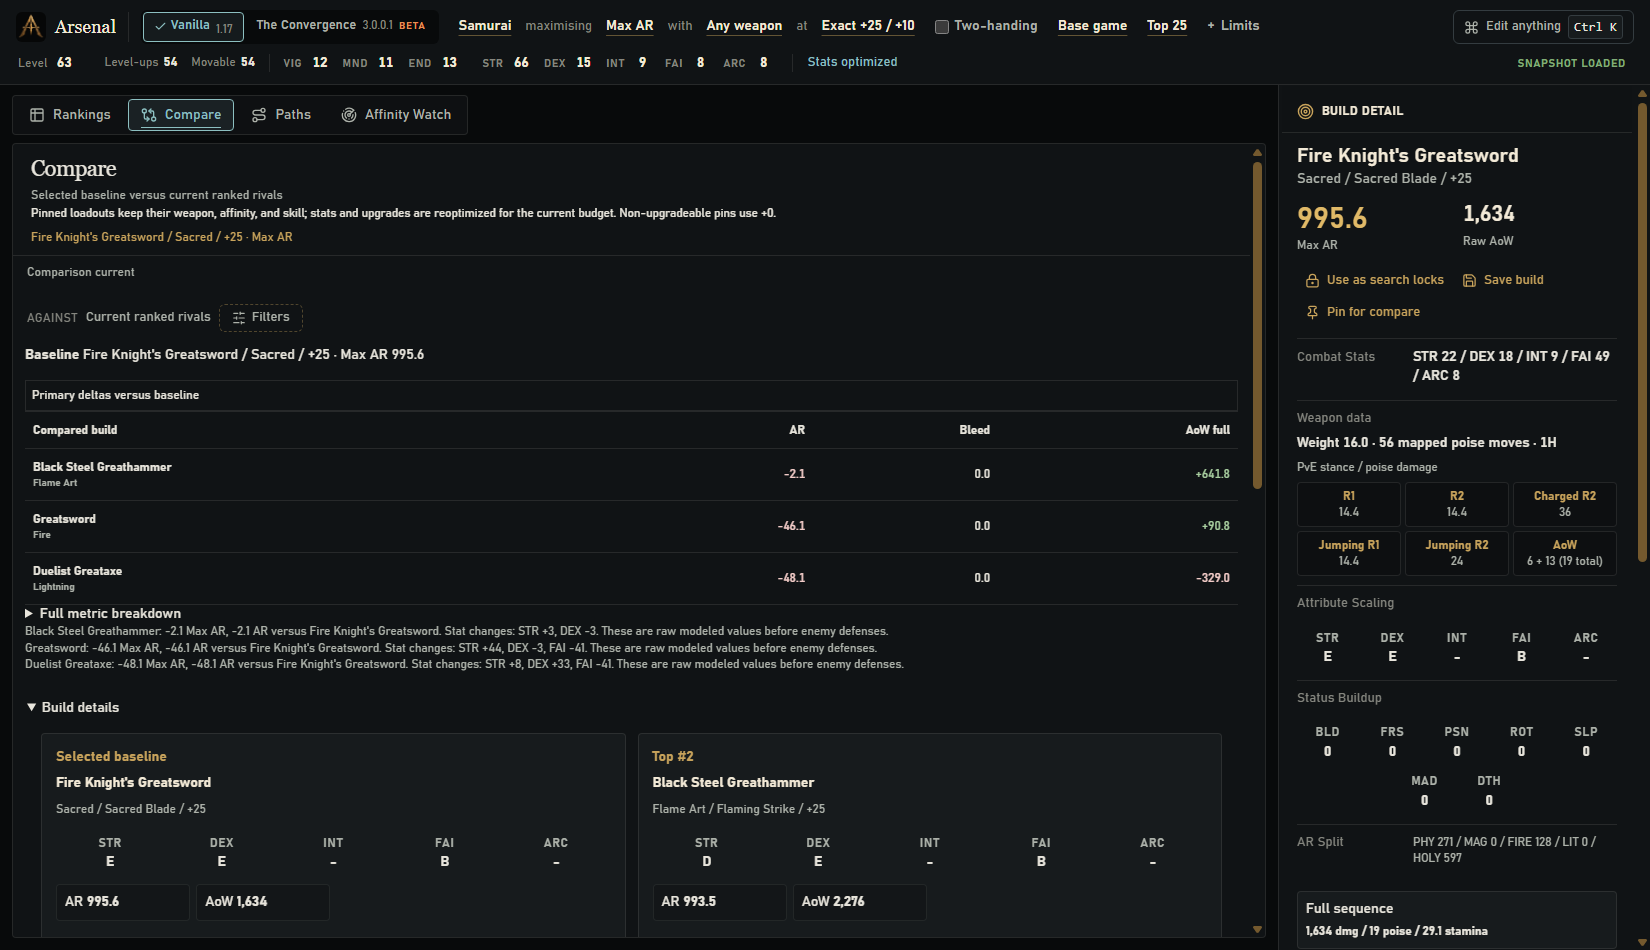
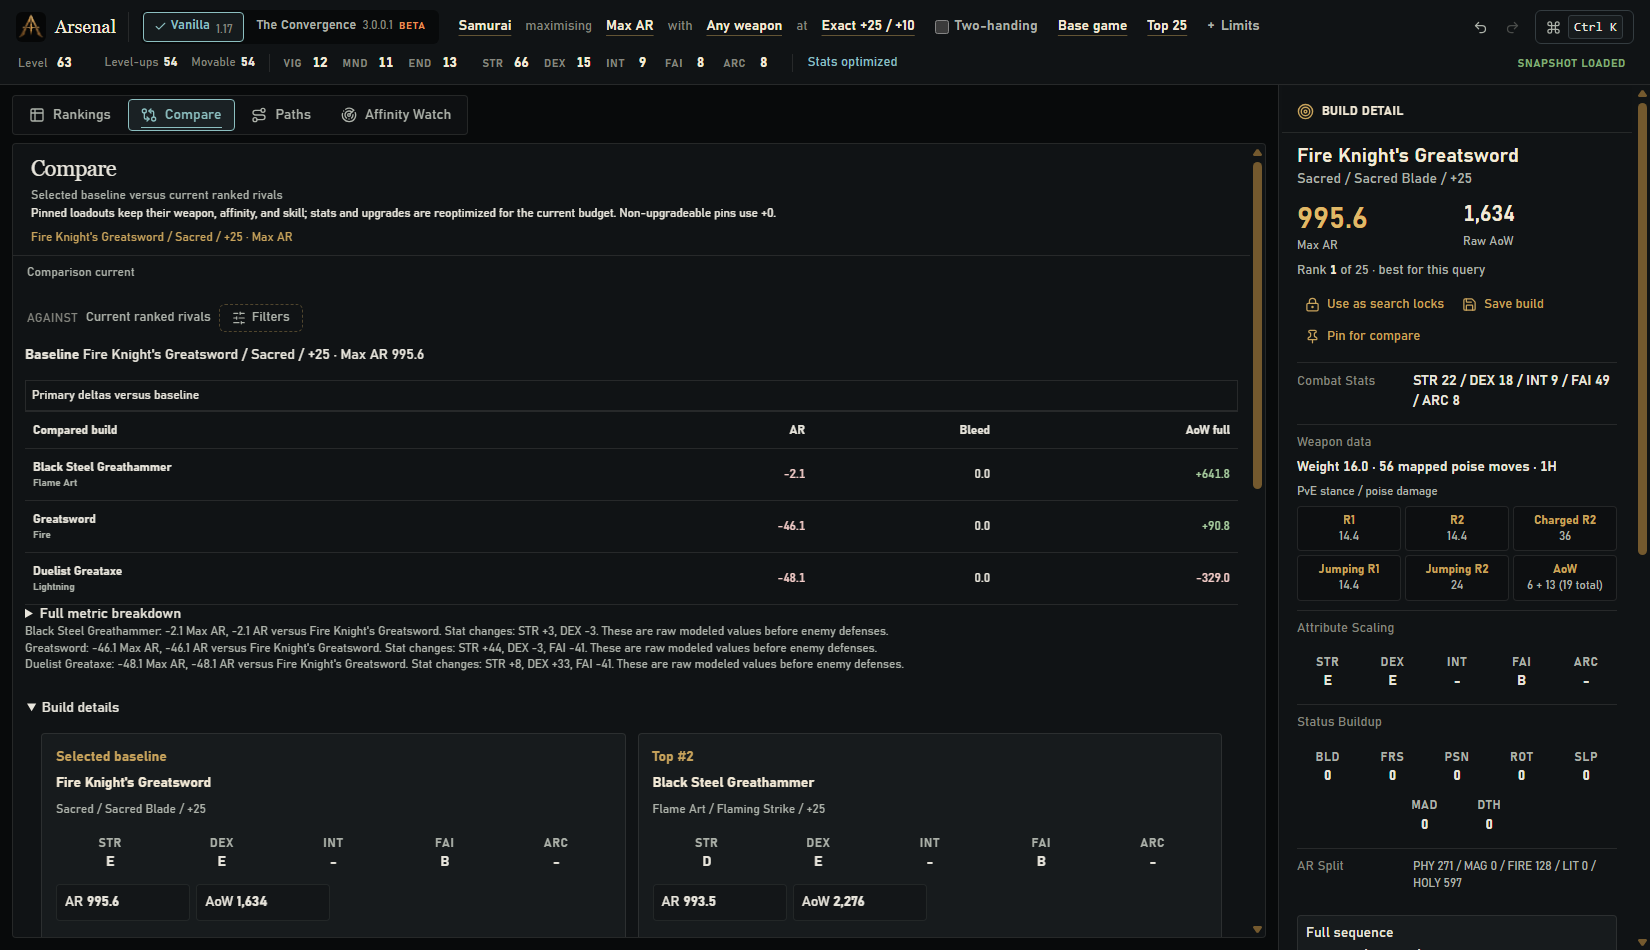
Prepare v0.17.0 with the query line, 120 Hz clicks and a smaller footprint
Bump the application and core to 0.17.0, add the v0.17.0 release notes and changelog entry, point the README at them, and recapture the four README screenshots from the release build.

diff --git a/docs/release-notes/v0.17.0.md b/docs/release-notes/v0.17.0.md
@@ -1,0 +1,110 @@
+# Release v0.17.0
+
+[Home](https://github.com/FueledByRedBull/tarnisheds-arsenal/blob/v0.17.0/README.md) · [All releases](https://github.com/FueledByRedBull/tarnisheds-arsenal/blob/v0.17.0/docs/release-notes/README.md)
+
+A query line you can type into, clicks that finish within a 120 Hz frame, and a
+fifth of the memory.
+
+## Desktop
+
+- The command rail becomes one query line over the results. Class, objective,
+  loadout, upgrades, handling, scaling, results, and limits are parts of the
+  sentence; click one to edit it in place, and type stats into the ribbon below.
+- **Ctrl+K** edits anything by typing, such as `str 40`, `lock dex 30`, a weapon,
+  a skill, `+20`, or `top 10`. Matches are highlighted and recent commands come
+  first.
+- **Ctrl+Z** and **Ctrl+Y** undo and redo any query change. Automatic weapon
+  follow-ups belong to the edit that caused them, and a profile change starts a
+  fresh history.
+- After **Update Results**, each rank shows how far its loadout moved and how its
+  score changed, and Build Detail states the selected rank and its gap to #1.
+- AR, skill damage, the objective, and rank sort from their column headers
+  without renumbering ranks. Keyboard and screen readers follow the sorted order.
+- **Ctrl+Enter** searches, **Ctrl+1** to **Ctrl+4** switch workspaces, arrow keys
+  move between ranked rows, and **?** lists every shortcut.
+- Compare shows its active filters as removable chips with one **Filters** panel,
+  and Build Detail reads as rows with its key numbers set large.
+- Motion explains changes: a re-ranked list settles into place, the workspace tab
+  highlight slides, editors open from their trigger, and values changed by undo or
+  the palette flash where they live. Searches show a progress bar that fills with
+  each update, and the first search fills the board with placeholder rows. All of
+  it respects the system reduced-motion setting.
+- The empty Rankings grid, the selected row's unavailable text, and the Compare
+  upgrade matrix now meet WCAG A/AA.
+
+## Speed and footprint
+
+- Every click finishes within about one 120 Hz frame on the GPU-composited
+  desktop: a column sort takes 7.7 ms instead of 18.5 ms, returning to Rankings
+  5.5 ms instead of 18.3 ms, and opening Compare 8.5 ms instead of 20.9 ms. New
+  results land in 17 ms instead of 29 ms.
+- Search preparation runs in parallel per thread, so an open search takes about
+  80 ms instead of 430 ms, with identical results. Bleed searches no longer have
+  occasional 25 to 44 second outliers, and progress and completion appear sooner.
+- The app uses about 180 MB when idle instead of about 1.1 GB, and about 350 MB
+  instead of 1.3 GB after heavy use. One data table reserved 482 MB per profile for
+  about 190 entries.
+- The portable executable is 12.5 MB instead of 17.6 MB, and the app reaches its
+  loaded data about 150 ms sooner.
+
+See the [performance measurements](https://github.com/FueledByRedBull/tarnisheds-arsenal/blob/v0.17.0/docs/performance.md#responsiveness-work-2026-10-01)
+for methods and limits.
+
+## Data compatibility and limits
+
+The bundled data and the scoring model are unchanged: snapshot schema **6** and
+runtime model **`aow-routes-effects-v9/exact-v3`**, so builds saved with v0.16.0
+load with their results. The game profiles remain Vanilla **1.17** and Convergence
+**3.0.0.1**. Convergence retains its documented experimental feature limits.
+
+AR and status values do not include enemy defenses, resistance growth, or status
+proc damage. Sequence totals assume the modeled contacts connect. War Cry and
+Barbaric Roar's attack-power self-buffs are not modeled. This release does not
+claim live in-game verification of every skill.
+
+## Verification
+
+The release source passed 241 core tests, 61 backend tests, 201 frontend unit
+tests, 166 browser tests, 17 Node contract checks, and 7 native-responsiveness
+metric tests; release-mode benchmarks, which are opt-in, were not run. Frontend
+lint and the production build, Clippy and formatting for both Rust crates, the
+snapshot validator, 122 Python extraction and validation-tool tests, release
+metadata validation, and documentation link checks also passed. Five packaging
+tests that need PowerShell 7 were skipped locally and run in CI.
+
+The release executable passed the packaged WebView2 smoke test with the version
+bump, using its compressed embedded data. A seeded external reference comparison
+against the pinned T. Clark 1.17 calculator passed all 632 Vanilla weapon AR and
+base status cases, covering 100 weapons and the 32 Bloodfiend's Fork boundary
+cases at zero, random, and maximum upgrades in both handling modes. The largest AR
+component difference was 0.00008, within the 0.001 tolerance, and all 348
+applicable selected-skill identities matched. The exhaustive raw-data check also
+passed for both profiles: every candidate weapon and Ash pair (382,220 Vanilla,
+389,058 Convergence) matched the raw regulation mount permissions, and all 364,304
+Vanilla and 601,140 Convergence legal configurations evaluated without errors apart
+from documented unsupported cases, including 255,208 materialized Vanilla skill
+routes. Neither check verifies skill damage formulas.
+
+Identical searches returned identical ranked results before and after the memory
+and size changes. Timings were measured on one Windows desktop with a 240 Hz
+display; the performance measurements record their methods and variation.
+Versioned packages must pass the release workflow's package checks before
+publication. Installation, upgrade, and uninstall on a clean Windows machine were
+not exercised. The release build report records the final source commit, package
+checks, and signing status.
+
+## Downloads
+
+These versioned links are prepared for publication and become available when
+v0.17.0 is published. Until then, use the
+[latest published release](https://github.com/FueledByRedBull/tarnisheds-arsenal/releases/latest).
+
+| Download | Use it for |
+| --- | --- |
+| [Windows installer](https://github.com/FueledByRedBull/tarnisheds-arsenal/releases/download/v0.17.0/TarnishedsArsenal_0.17.0_x64_en-US.msi) | Standard installation; downloads WebView2 if needed |
+| [Portable executable](https://github.com/FueledByRedBull/tarnisheds-arsenal/releases/download/v0.17.0/TarnishedsArsenal_0.17.0_portable.exe) | Run directly with WebView2 already installed |
+| [Portable archive](https://github.com/FueledByRedBull/tarnisheds-arsenal/releases/download/v0.17.0/TarnishedsArsenal_0.17.0.zip) | Compressed portable app and documentation; MSI downloaded separately |
+| [SHA-256 checksums](https://github.com/FueledByRedBull/tarnisheds-arsenal/releases/download/v0.17.0/TarnishedsArsenal_0.17.0_SHA256SUMS.txt) | Verify the downloaded files |
+| [Build report](https://github.com/FueledByRedBull/tarnisheds-arsenal/releases/download/v0.17.0/TarnishedsArsenal_0.17.0_build-report.json) | Source commit, profile identities, and signing status |
+
+[Full changelog](https://github.com/FueledByRedBull/tarnisheds-arsenal/compare/v0.16.0...v0.17.0)

diff --git a/README.md b/README.md
@@ -24,23 +24,21 @@ comparisons and progression previews.
 [![Tauri 2](https://img.shields.io/badge/Tauri_2-101315?style=flat-square&logo=tauri&logoColor=c9a45c)](apps/desktop/src-tauri)
 [![React 19](https://img.shields.io/badge/React_19-101315?style=flat-square&logo=react&logoColor=c9a45c)](apps/desktop/src)
 
-[What’s new in v0.16.0](docs/release-notes/v0.16.0.md)
+[What’s new in v0.17.0](docs/release-notes/v0.17.0.md)
 · [Your first build](#your-first-build)
 · [Documentation](#documentation)
 
 </div>
 
 Each Rankings row shows the loadout, weapon scaling, combat stats, AR, and skill
-damage, with the selected build’s full breakdown on the right. Screenshots show
-the query-line interface that follows [v0.16.0](docs/release-notes/v0.16.0.md);
-v0.16.0 itself uses the earlier command rail.
+damage, with the selected build’s full breakdown on the right.
 
 ![Rankings with weapon setups, combat stats, scaling, and the selected build’s damage breakdown](docs/images/tarnisheds-arsenal-rankings.png)
 
 ## Download
 
 Choose an asset from the [latest published release](https://github.com/FueledByRedBull/tarnisheds-arsenal/releases/latest).
-The [v0.16.0 notes](docs/release-notes/v0.16.0.md) include versioned downloads,
+The [v0.17.0 notes](docs/release-notes/v0.17.0.md) include versioned downloads,
 calculation changes, and verification limits.
 
 | Choose | Best for |
@@ -194,7 +192,7 @@ Choose a guide for the task at hand:
 
 | I want to… | Read |
 | --- | --- |
-| See what changed in **v0.16.0** | [Release notes](docs/release-notes/v0.16.0.md) · [All versions](docs/release-notes/README.md) |
+| See what changed in **v0.17.0** | [Release notes](docs/release-notes/v0.17.0.md) · [All versions](docs/release-notes/README.md) |
 | Understand supported mechanics and limitations | [Model reference](docs/model-reference.md) |
 | Find components and trace a calculation | [Optimizer overview](docs/design/optimizer-overview.md) |
 | Inspect the exact ranking contract and proof | [Optimizer mathematics](docs/design/optimizer-math.md) |

diff --git a/docs/release-notes/README.md b/docs/release-notes/README.md
@@ -2,11 +2,11 @@
 
 [Home](../../README.md) · [Documentation](../../README.md#documentation) · [Release guide](../releasing.md)
 
-## v0.16.0
+## v0.17.0
 
-A refreshed desktop layout, corrected skill routes, and saved builds that load
-and verify reliably.
-Read the [v0.16.0 notes](v0.16.0.md) for the changes and download choices.
+A query line you can type into, clicks that finish within a 120 Hz frame, and a
+fifth of the memory.
+Read the [v0.17.0 notes](v0.17.0.md) for the changes and download choices.
 
 For the current Windows installer and portable app, visit the
 [latest published release](https://github.com/FueledByRedBull/tarnisheds-arsenal/releases/latest).
@@ -15,6 +15,7 @@ For the current Windows installer and portable app, visit the
 
 | Version | Notes | GitHub release |
 | --- | --- | --- |
+| v0.17.0 | [v0.17.0.md](v0.17.0.md) | [Tarnished's Arsenal v0.17.0](https://github.com/FueledByRedBull/tarnisheds-arsenal/releases/tag/v0.17.0) |
 | v0.16.0 | [v0.16.0.md](v0.16.0.md) | [Tarnished's Arsenal v0.16.0](https://github.com/FueledByRedBull/tarnisheds-arsenal/releases/tag/v0.16.0) |
 | v0.15.0 | [v0.15.0.md](v0.15.0.md) | [Tarnished's Arsenal v0.15.0](https://github.com/FueledByRedBull/tarnisheds-arsenal/releases/tag/v0.15.0) |
 | v0.14.1 | [v0.14.1.md](v0.14.1.md) | [Tarnished's Arsenal v0.14.1](https://github.com/FueledByRedBull/tarnisheds-arsenal/releases/tag/v0.14.1) |

diff --git a/CHANGELOG.md b/CHANGELOG.md
@@ -1,5 +1,24 @@
 # Changelog
 
+## [v0.17.0](docs/release-notes/v0.17.0.md)
+
+- Replace the command rail with an editable query line over the results, add a
+  Ctrl+K palette that edits anything by typing, and show active Compare filters as
+  removable chips.
+- Undo and redo query changes, show how each rank moved after a search, sort
+  result columns without renumbering ranks, and add keyboard shortcuts.
+- Add motion that explains changes and searching progress, respecting reduced
+  motion. Bring the empty Rankings grid and Compare matrix to WCAG A/AA.
+- Prepare searches in parallel per thread and visit upgrades highest first:
+  open searches prepare about five times faster with identical results, and bleed
+  searches lose their 25 to 44 second outliers. Poll native jobs sooner.
+- Finish every click within about one 120 Hz frame: reserve scrollbar gutters,
+  sort rows in place, keep Rankings rendered while hidden, and stop tab switches
+  from re-rendering the query line and Build Detail.
+- Store attack-element corrections sparsely, cutting idle memory from about
+  1.1 GB to 180 MB, and embed the runtime tables compressed, shrinking the
+  executable from 17.6 MB to 12.5 MB.
+
 ## [v0.16.0](docs/release-notes/v0.16.0.md)
 
 - Validate saved starting classes before activation and recalculate saved results
